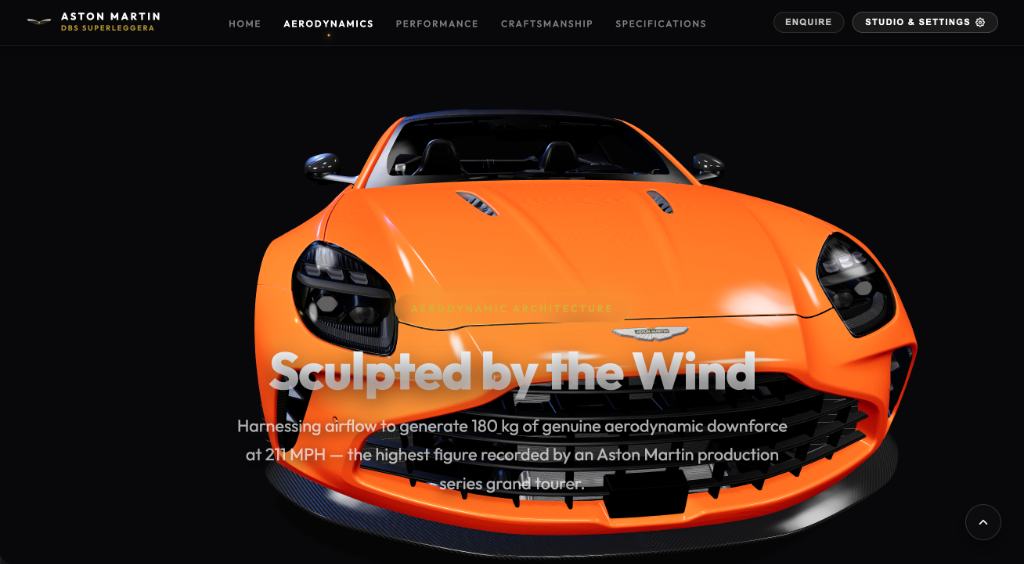
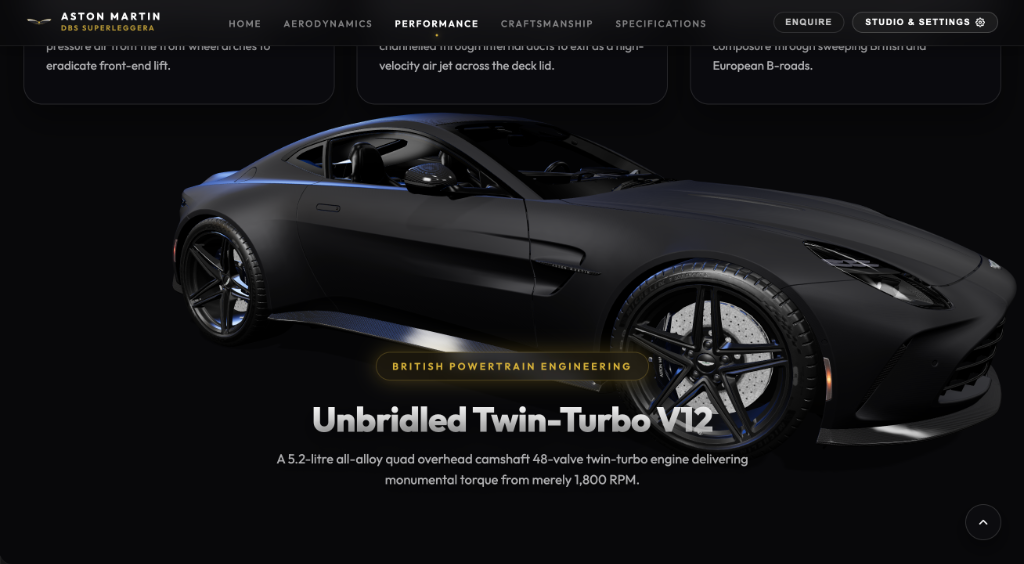
Set default car paintwork to Obsidian Black with Satin Matte finish

diff --git a/index.html b/index.html
@@ -465,12 +465,12 @@
                 <div class="setting-group">
                     <div class="setting-title-row">
                         <label class="setting-label">Exterior Paintwork</label>
-                        <span class="setting-active-name" id="active-colour-name">Hyper Red</span>
+                        <span class="setting-active-name" id="active-colour-name">Obsidian Black</span>
                     </div>
                     <div class="colour-swatches">
-                        <button class="colour-swatch active" data-color="#9a0a0a" data-name="Hyper Red" style="background: #9a0a0a;" title="Hyper Red"></button>
+                        <button class="colour-swatch" data-color="#9a0a0a" data-name="Hyper Red" style="background: #9a0a0a;" title="Hyper Red"></button>
                         <button class="colour-swatch" data-color="#00432c" data-name="Aston Racing Green" style="background: #00432c;" title="Aston Racing Green"></button>
-                        <button class="colour-swatch" data-color="#141416" data-name="Obsidian Black" style="background: #141416;" title="Obsidian Black"></button>
+                        <button class="colour-swatch active" data-color="#141416" data-name="Obsidian Black" style="background: #141416;" title="Obsidian Black"></button>
                         <button class="colour-swatch" data-color="#9aa2a8" data-name="Quantum Silver" style="background: #9aa2a8;" title="Quantum Silver"></button>
                         <button class="colour-swatch" data-color="#0a2a4a" data-name="Midnight Sapphire" style="background: #0a2a4a;" title="Midnight Sapphire"></button>
                         <button class="colour-swatch" data-color="#c59b27" data-name="Solar Gold" style="background: #c59b27;" title="Solar Gold"></button>
@@ -482,8 +482,8 @@
                 <div class="setting-group">
                     <label class="setting-label">Paint Finish</label>
                     <div class="pill-toggle-group">
-                        <button class="pill-btn active" data-finish="gloss">High Gloss</button>
-                        <button class="pill-btn" data-finish="matte">Satin Matte</button>
+                        <button class="pill-btn" data-finish="gloss">High Gloss</button>
+                        <button class="pill-btn active" data-finish="matte">Satin Matte</button>
                     </div>
                 </div>
 

diff --git a/main.js b/main.js
@@ -100,7 +100,8 @@ const progressPercent = document.getElementById('progress-percent');
 
 let carModel = null;
 const paintMeshes = [];
-let originalPaintColor = new THREE.Color(0x9a0a0a);
+const defaultPaintColor = new THREE.Color('#141416');
+let originalPaintColor = new THREE.Color(0x141416);
 
 gltfLoader.load(
     'assets/scene-v5.glb',
@@ -115,9 +116,12 @@ gltfLoader.load(
                     child.material.envMapIntensity = 1.35;
                     if (child.material.name && (child.material.name.includes('Paint') || child.material.name.includes('paint'))) {
                         paintMeshes.push(child);
-                        if (child.material.color) {
-                            originalPaintColor.copy(child.material.color);
-                        }
+                        // Apply default stealth Obsidian Black Satin Matte
+                        child.material.color.copy(defaultPaintColor);
+                        child.material.roughness = 0.52;
+                        child.material.metalness = 0.35;
+                        child.material.clearcoat = 0.0;
+                        child.material.needsUpdate = true;
                     }
                 }
             }
@@ -1124,13 +1128,13 @@ if (btnStudioReset) {
         if (studioSidebar) studioSidebar.classList.remove('collapsed');
         if (btnExpandSidebar) btnExpandSidebar.classList.remove('visible');
 
-        // Reset colour to Hyper Red
-        const firstSwatch = colourSwatches[0];
-        if (firstSwatch) firstSwatch.click();
+        // Reset colour to Obsidian Black
+        const blackSwatch = document.querySelector('.colour-swatch[data-name="Obsidian Black"]') || colourSwatches[2];
+        if (blackSwatch) blackSwatch.click();
 
-        // Reset finish to High Gloss
-        const firstFinish = finishButtons[0];
-        if (firstFinish) firstFinish.click();
+        // Reset finish to Satin Matte
+        const matteFinish = document.querySelector('.pill-btn[data-finish="matte"]');
+        if (matteFinish) matteFinish.click();
 
         // Reset light to Showroom
         const firstLight = lightButtons[0];
